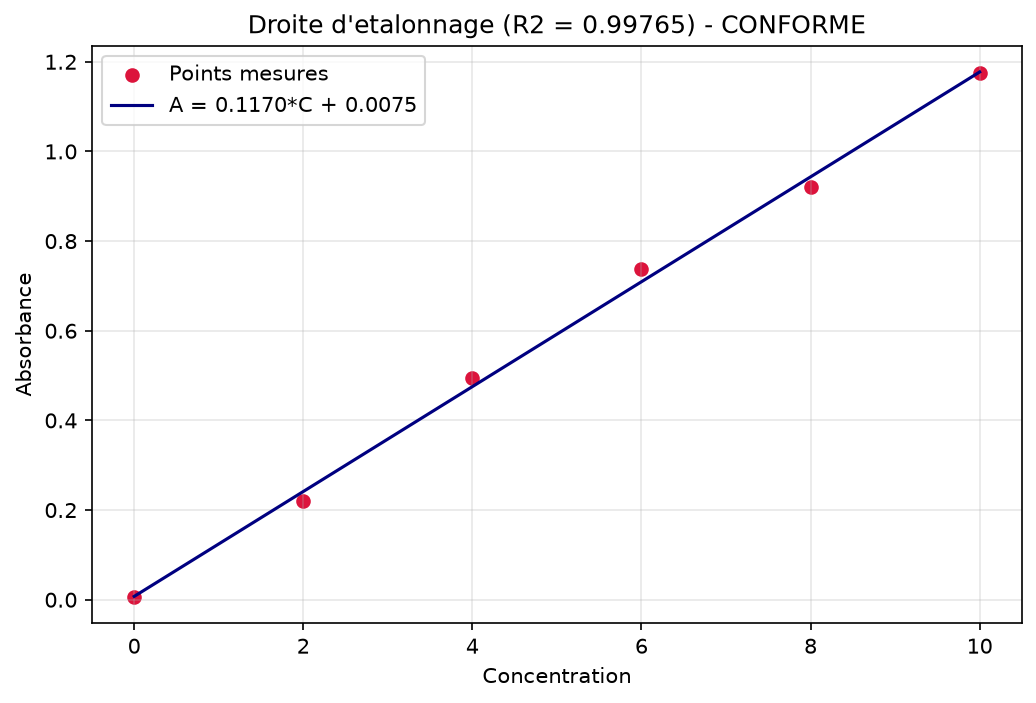
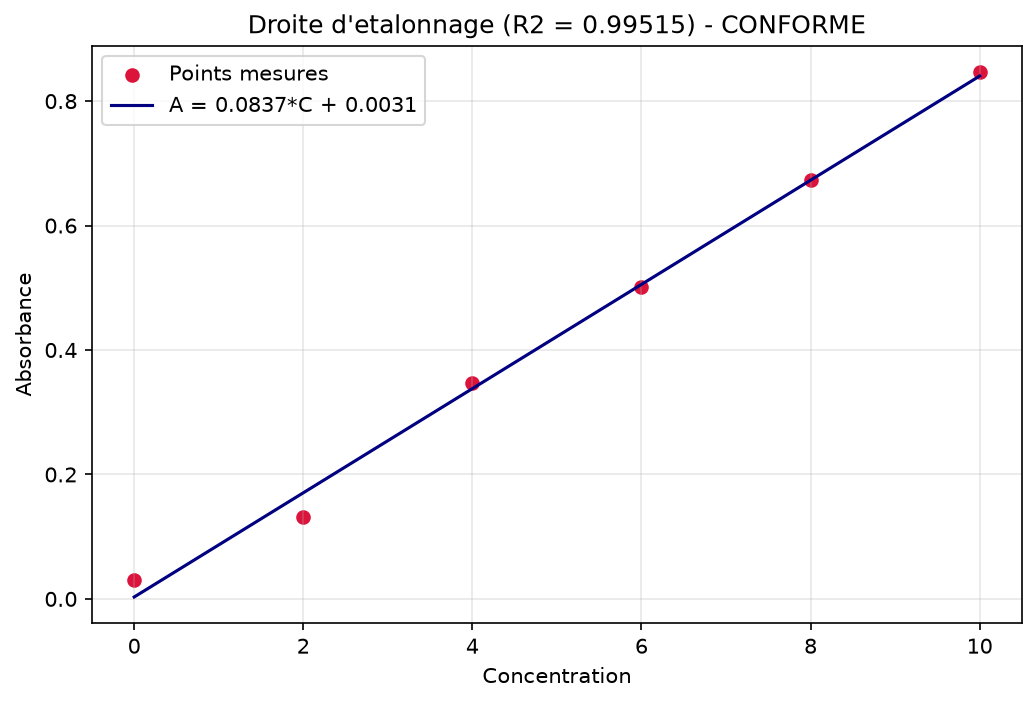
Ajout : lecture d'une gamme depuis un fichier CSV
- Nouvelle fonction charger_gamme_csv() (pandas)
- Support d'un argument CSV en ligne de commande (sys.argv)
- Fichier d'exemple gamme_exemple.csv
- README et requirements mis a jour

diff --git a/validation_gamme.py b/validation_gamme.py
@@ -7,16 +7,23 @@ Automatise la validation d'une methode analytique lineaire
 d'etalonnage : regression lineaire, R2, LOD, LOQ, et verdict de
 conformite -- avec un rapport et un graphique.
 
+NOUVEAU : peut lire une gamme directement depuis un fichier CSV.
+
 Concu par un technicien en chimie analytique pour supprimer le
 traitement manuel sous tableur (des heures -> quelques secondes,
 sans erreur de recopie, resultat reproductible).
 
-Donnees d'exemple = 100 % synthetiques (aucune donnee reelle de labo).
+Utilisation :
+    python validation_gamme.py                  # demo sur donnees synthetiques
+    python validation_gamme.py gamme.csv        # sur ton propre fichier CSV
+    (le CSV doit avoir 2 colonnes : concentration, absorbance)
 
 Auteur : Martial
 """
 
+import sys
 import numpy as np
+import pandas as pd
 import matplotlib.pyplot as plt
 
 
@@ -63,6 +70,18 @@ def valider_gamme(concentrations, absorbances, seuil_r2=0.995):
     }
 
 
+def charger_gamme_csv(chemin, col_conc="concentration", col_abs="absorbance"):
+    """Charge une gamme depuis un fichier CSV.
+
+    Le CSV doit contenir deux colonnes nommees (par defaut
+    'concentration' et 'absorbance'). Renvoie deux tableaux NumPy.
+    """
+    df = pd.read_csv(chemin)
+    concentrations = df[col_conc].to_numpy()
+    absorbances = df[col_abs].to_numpy()
+    return concentrations, absorbances
+
+
 def afficher_rapport(nom, rapport):
     """Affiche un rapport de validation lisible dans la console."""
     print(f"\n----- RAPPORT DE VALIDATION : {nom} -----")
@@ -101,9 +120,16 @@ def generer_gamme_demo(seed=42):
 
 
 if __name__ == "__main__":
-    # Demonstration sur donnees synthetiques
-    concentrations, absorbances = generer_gamme_demo()
+    # Si un fichier CSV est passe en argument, on l'utilise ;
+    # sinon on retombe sur la demonstration synthetique.
+    if len(sys.argv) > 1:
+        chemin = sys.argv[1]
+        concentrations, absorbances = charger_gamme_csv(chemin)
+        nom = f"Fichier : {chemin}"
+    else:
+        concentrations, absorbances = generer_gamme_demo()
+        nom = "Gamme de demonstration (synthetique)"
 
     rapport = valider_gamme(concentrations, absorbances)
-    afficher_rapport("Gamme de demonstration", rapport)
+    afficher_rapport(nom, rapport)
     tracer_gamme(concentrations, absorbances, rapport)

diff --git a/README.md b/README.md
@@ -53,10 +53,16 @@ rapport = valider_gamme(concentrations, absorbances)
 afficher_rapport("Ma gamme", rapport)
 ```
 
-Ou lancer la démonstration intégrée :
+Lancer la démonstration intégrée (données synthétiques) :
 
 ```bash
 python validation_gamme.py
+```
+
+Ou valider **ton propre fichier CSV** (2 colonnes : `concentration`, `absorbance`) :
+
+```bash
+python validation_gamme.py gamme.csv
 ```
 
 ## Note sur les données
@@ -73,7 +79,7 @@ python -m pip install -r requirements.txt
 ## Améliorations prévues
 
 - Écart-type résiduel rigoureux à `n-2` degrés de liberté
-- Import direct depuis un fichier CSV
+- ~~Import direct depuis un fichier CSV~~ ✅ fait
 - Export du rapport en PDF
 - Détection automatique du domaine de linéarité
 
